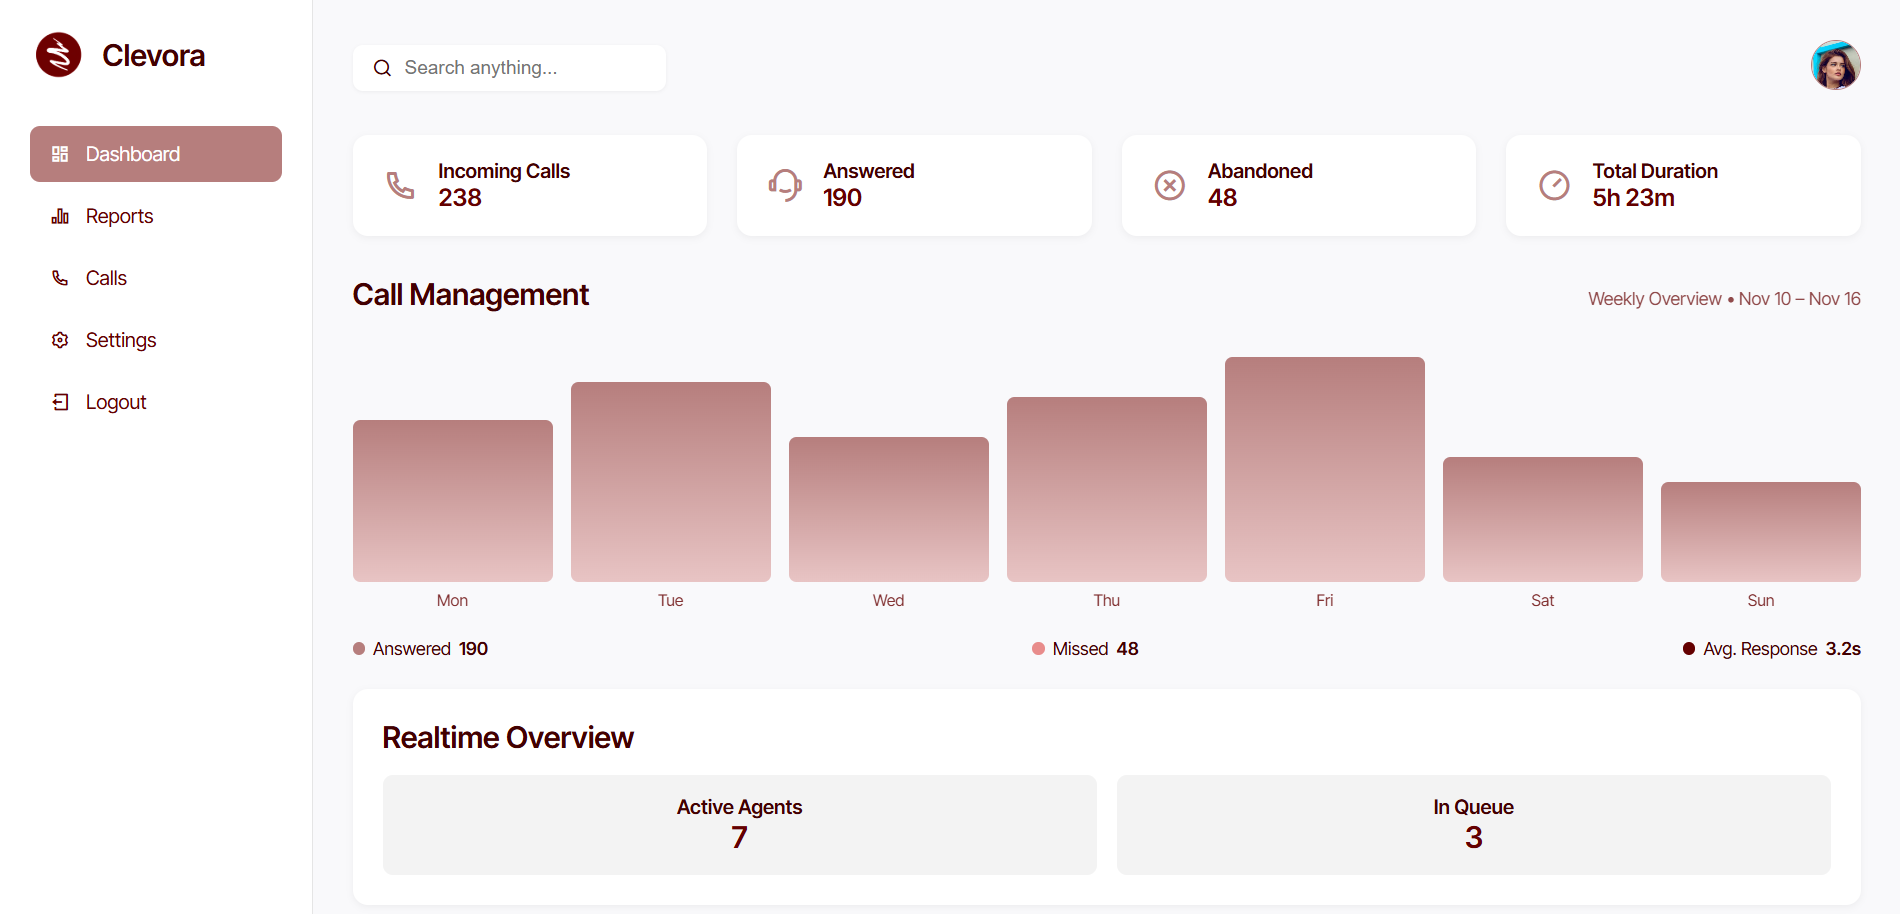
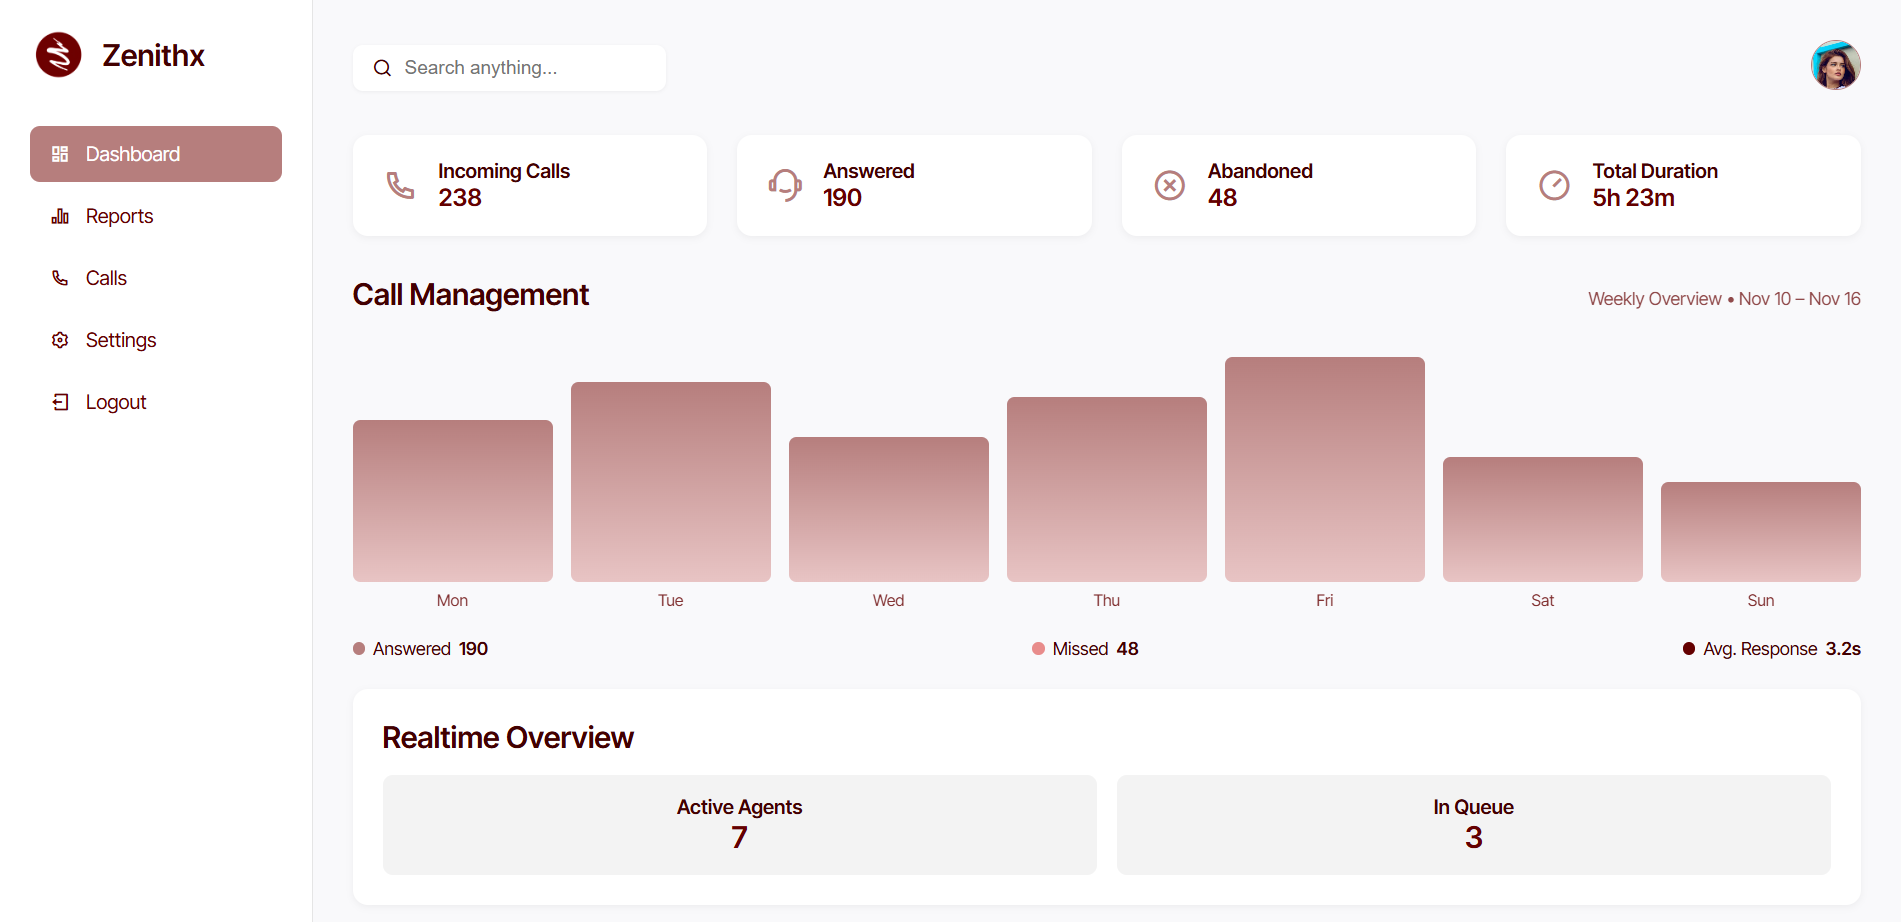
Fixed everything from Clevora -> Zenithx

diff --git a/pages/faq.html b/pages/faq.html
@@ -28,7 +28,7 @@
             class="faq-answer"
           >
             <p>
-              Gifo for Teams streamlines communication by turning complex
+              Zenithx for Teams streamlines communication by turning complex
               messages into quick.
             </p>
           </div>
@@ -78,7 +78,7 @@
 
         <div class="faq-item">
           <div class="faq-question">
-            <h3>Can I cancel anytime?</h3>
+            <h3>Is my data safe ?</h3>
             <div class="faq-icon">
               <span style="height: 2.5px" class="line line-horizontal"></span>
               <span class="line line-vertical"></span>
@@ -93,8 +93,8 @@
             class="faq-answer"
           >
             <p>
-              Absolutely! You can cancel your plan anytime without any
-              cancellation fees.
+              Yes. We use encryption and strict privacy policies to ensure your
+              data is always protected.
             </p>
           </div>
         </div>

diff --git a/pages/features.html b/pages/features.html
@@ -10,7 +10,7 @@
       <h1 class="t-1">Features centralize Your Data</h1>
       <p class="c-1">
         Bring all your communication, content, and visuals into one organized
-        hub. Clevora eliminates silos and scattered tools, helping your team.
+        hub. Zenithx eliminates silos and scattered tools, helping your team.
       </p>
     </div>
 
@@ -23,7 +23,7 @@
           <div class="f-wrap">
             <h5>Easy Integration</h5>
             <p>
-              Seamlessly connect Clevora with your existing tools and systems
+              Seamlessly connect Zenithx with your existing tools and systems
               —no coding required..
             </p>
           </div>

diff --git a/css/footer.css b/css/footer.css
@@ -15,10 +15,11 @@
   display: flex;
   flex-direction: column;
   align-items: center;
+  max-width: 1100px;
 }
 
 .footer-line {
-  width: 90%;
+  width: 80%;
   height: 0.2px;
   background-color: rgba(186, 180, 180, 0.7);
   margin: 0px auto;
@@ -68,7 +69,6 @@ input:focus {
         text-align: left;
     }
     .social-profiles{
-        margin-right: 4rem;
         gap: 2rem;
         margin-bottom: 1rem;
     }

diff --git a/mockup-ss/index.html b/mockup-ss/index.html
@@ -15,9 +15,9 @@
     <aside class="sidebar">
       <div class="brand">
         
-            <img class="logo-clevora" src="../logo/logo.png" alt="">
+            <img class="logo-clevora" src="/images/logo/logo.png" alt="">
         
-        <h2>Clevora</h2>
+        <h2>Zenithx</h2>
       </div>
       <nav class="menu">
         <a href="#" class="active"><i class="ri-dashboard-line"></i> Dashboard</a>

diff --git a/pages/how-it-works.html b/pages/how-it-works.html
@@ -58,7 +58,7 @@
       <div class="how-it-works">
         <p class="htw t-1">How it works</p>
         <p class="htw-content c-1">
-          Clevora simplifies team communication by converting complex ideas into
+          Zenithx simplifies team communication by converting complex ideas into
           <br />quick, visual messages. Create, share, and collaborate
         </p>
       </div>

diff --git a/pages/testimonials.html b/pages/testimonials.html
@@ -11,7 +11,7 @@
         <p>Testimonials</p>
       </div>
       <div class="test-content feature-content">
-        <h1 class="t-1">Things user love about Clevora</h1>
+        <h1 class="t-1">Things user love about Zenithx</h1>
         <p class="c-1">
           Get started in minutes, not hours. Our intuitive interface requires
           zero technical expertise.

diff --git a/css/contact.css b/css/contact.css
@@ -1,6 +1,9 @@
 * {
   font-family: "Inter Tight", sans-serif;
 }
+html {
+  scroll-behavior: smooth;
+}
 
 :root {
   --light-color: #b67e7d;
@@ -81,7 +84,7 @@ img{
     padding-left: 20px;
     color: var(--secondary-color);
   }
- button {
+ .join {
     width: 8.5rem;
     height: 3.3rem;
     padding: 0.5rem;

diff --git a/pages/contact.html b/pages/contact.html
@@ -22,7 +22,7 @@
 
       <div class="contact-email">
         <input type="text" placeholder="Enter Email" />
-        <button>Join Waitlist</button>
+        <button class="join">Join Waitlist</button>
       </div>
     </div>
   </div>

diff --git a/css/faq.css b/css/faq.css
@@ -1,6 +1,9 @@
 * {
   font-family: "Inter Tight", sans-serif;
 }
+html {
+  scroll-behavior: smooth;
+}
 
 :root {
   --light-color: #b67e7d;
